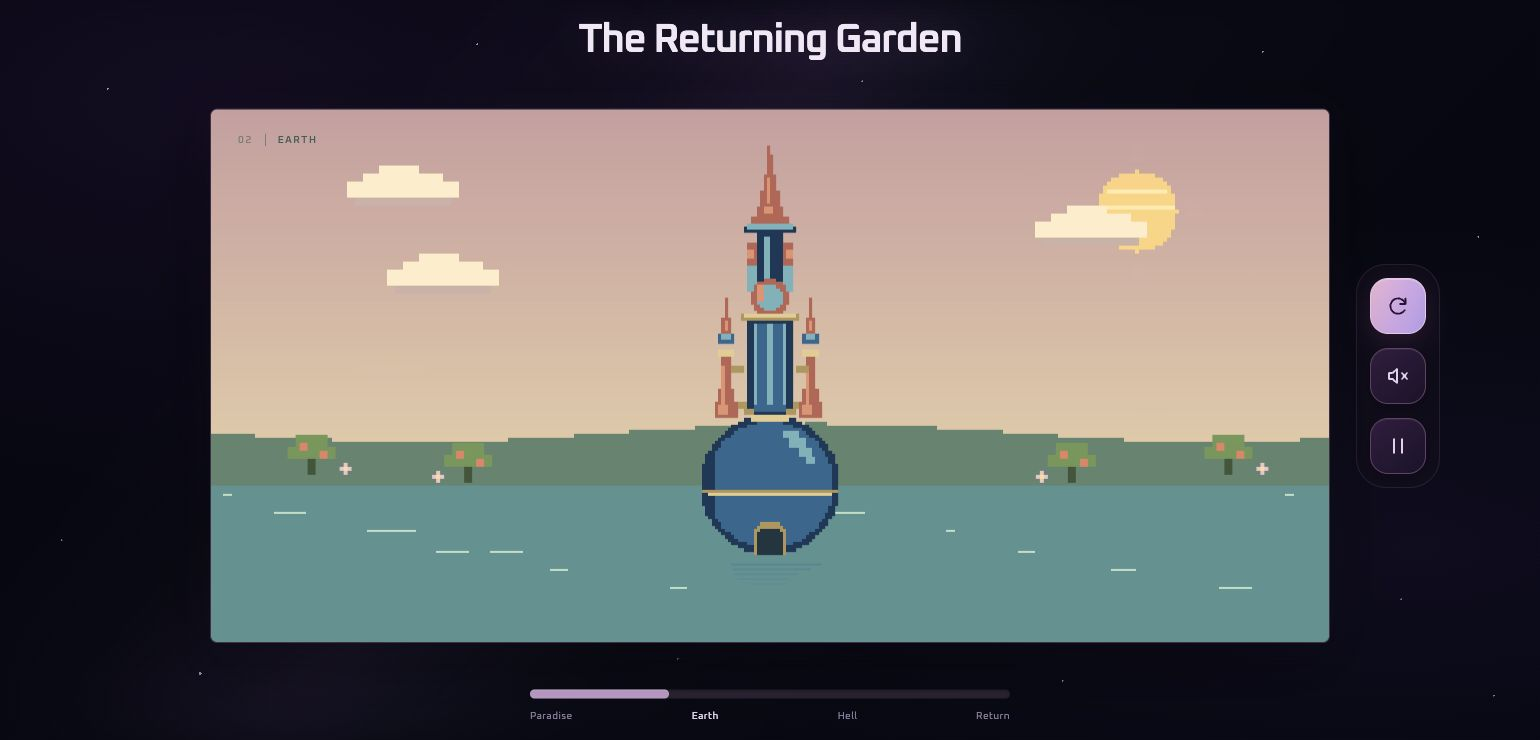
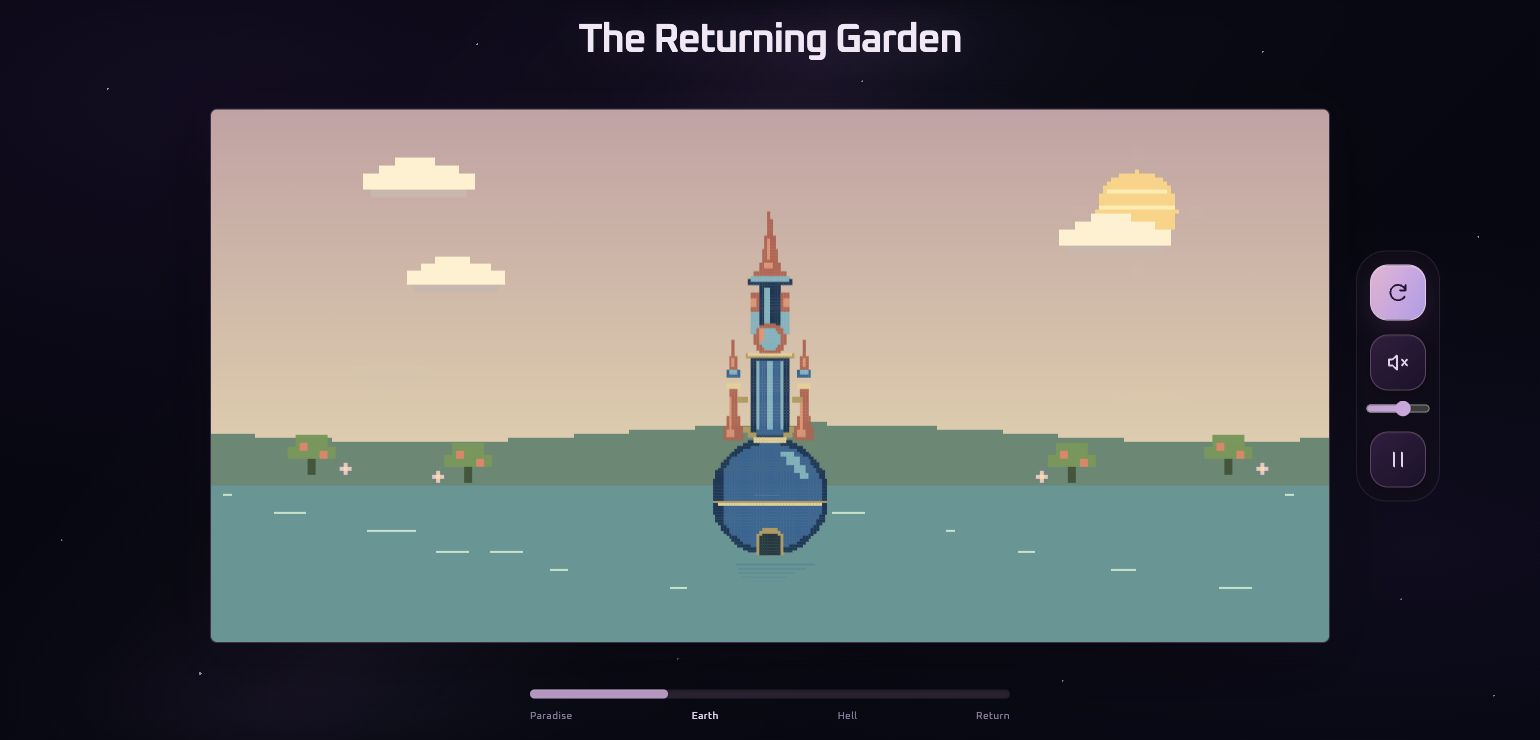
Explain global pause and verify visible volume response

diff --git a/docs/COURSE_CODE_AUDIT.md b/docs/COURSE_CODE_AUDIT.md
@@ -40,7 +40,7 @@ Classification:
 | Anonymous callback functions passed to an event listener | **A.** Week 5 Tutorial section 1 explicitly uses `addEventListener("click", function(e) { ... })`. This feature must not be wrongly listed as wholly outside the course. |
 | `class`, constructor, `this`, instance properties, methods, `new`, separate update/display responsibilities | **A.** Week 7 Lecture's `Ball` class; OOP PDF pp24–53 and pp54–84. Week 11 Tutorial's `Head` class independently demonstrates the pattern. OOP PDF p104 explicitly says OOP is needed for the Final. |
 | Multiple ordinary script files in dependency order | **A.** Week 3 Tutorial's `utils.js` before `script.js`; OOP PDF pp85–88 separates class files and loads them before `sketch.js`. The project does not use ES modules or a build framework. |
-| `String(value)`, `.indexOf()`, `.toUpperCase()` | **C** for the exact conversion/string methods: no example was located. String values and object-method syntax themselves are **A**. Here the methods produce ARIA values, identify an audio error status and format a phase label. |
+| `String(value)`, `.indexOf()` | **C** for the exact conversion/string methods: no example was located. String values and object-method syntax themselves are **A**. Here the methods produce ARIA values and identify an audio error status. |
 | `try/catch`, Promise `.then(success, failure)`, captured `mechanic = this` across an asynchronous callback | **C.** Not located in the saved lesson bodies, exported page HTML or PDF text. Ordinary functions and scope are taught, but promise settlement and exception recovery are additional concepts. |
 
 No authored runtime code uses array `.map()`/`.filter()`, arrow-function chains, destructuring, async/await, import/export, inheritance frameworks or a physics engine. This observation describes the current source; it does not imply every remaining browser helper was taught.
@@ -68,7 +68,8 @@ No authored runtime code uses array `.map()`/`.filter()`, arrow-function chains,
 | `millis()` | **C exact API; B clock design.** The course teaches timers in Week 5 Tutorial using `setInterval`, and temporal animation using `frameCount` later. No actual `millis()` example was located in the lesson bodies, offline page HTML or PDF text. Elapsed-time modulo, pause compensation and re-anchoring the one clock are the project's own implementation. |
 | `deltaTime` | **C exact API.** No example was located. The project uses it for elapsed-frame motion and easing, building on taught frame animation and `lerp`. |
 | `pixelDensity(1)`, `frameRate(60)`, `cursor(HAND/ARROW)`, renderer `.parent()` and `.elt` | **C exact APIs.** Not located as taught examples. They control output density, target frame rate, hover feedback and DOM placement/accessibility. The course states that draw normally runs around 60 fps; that statement is not evidence that `frameRate()` was demonstrated. |
-| `loadSound()`, `p5.Amplitude`, `.setInput()`, `.getLevel()`, `.isPlaying()`, `.play()`, `.pause()` | **A.** Week 10 Lecture/Tutorial, `3241912.json` / `3241914.json`; Audio PDF `Week 12.pdf` pp24–32 and pp38–56. The PDF p24 code screenshot explicitly calls `audio.pause()` and uses a Space gesture; this was visually rechecked during this audit. The webpage examples instead use `.stop()`/`.loop()`. Amplitude driving size is directly demonstrated; mapping it into a narrow scale range and doorway glow is **B**. |
+| `loadSound()`, `p5.Amplitude`, `.setInput()`, `.getLevel()`, `.isPlaying()`, `.play()`, `.pause()` | **A.** Week 10 Lecture/Tutorial, `3241912.json` / `3241914.json`; Audio PDF `Week 12.pdf` pp24–32 and pp38–56. The PDF p24 code screenshot explicitly calls `audio.pause()` and uses a Space gesture; this was visually rechecked during this audit. The webpage examples instead use `.stop()`/`.loop()`. Amplitude driving size is directly demonstrated; the volume-plus-amplitude scale and doorway glow are **B** applications. |
+| `createSlider()`, slider `.value()` and SoundFile `.setVolume()` | **A.** Week 10 Lecture explicitly uses `createSlider(0,1,0.5,0.02)` and `audio.setVolume(slider.value())`. The corresponding Audio PDF `Week 12.pdf` pp24, 30 and 32 demonstrates the volume control. The project's default 0.6, step 0.01 and visible base-size mapping are **B** choices. Gain-ramp timing and conditional gain writes are additional implementation details. |
 | Sound `.setLoop(true)`, `.isLoaded()`, load success/error callbacks | **C for these exact calls/callback signatures.** The course teaches looping with `.loop()` and loading in `preload()`. Separate loop mode and load-state/error guards are additional implementation details. |
 | `userStartAudio()` plus a promise | **C.** The course explicitly teaches that a user gesture must initiate audio, but this exact unlock API and its asynchronous success/failure handling were not located. Explain the distinction between granting browser playback permission and actually starting/pausing the sound file. |
 
@@ -77,7 +78,7 @@ No authored runtime code uses array `.map()`/`.filter()`, arrow-function chains,
 - **Castle:** constructing a token grid, painting groups of cells, choosing sphere/ring cells with distance, then drawing each occupied cell with `rect()`. This combines taught data structures, loops, classes, basic shapes and transforms. Its artwork-specific recipe was not a course example.
 - **WorldClock:** four fifteen-second stages, stable/transition intervals, sixteen semantic colour keys, three world weights, repeated Earth intervention and pause compensation. Timers, modulo, booleans, conditions, arrays and interpolation have course precedents; this one-timeline state model is new project logic. `millis()` is separately identified as an additional API.
 - **CloudSystem:** initial random size/position/speed/offset and continuous noise sampling, with side constraints and smooth phase-speed changes. The random/noise class concept is directly taught; the three-cloud composition and speed recipe are new.
-- **AudioMechanic:** a known amplitude analyser drives a deliberately small, smoothed transform and doorway light. The aesthetic mapping is new; asynchronous browser recovery is an extension.
+- **AudioMechanic:** a course-style volume slider controls output gain and a visible base scale; post-gain RMS adds musical breathing. Enabled preference, actual playback and global pause are separate flags. Holding visual samples and pausing/resuming the file use original state logic; asynchronous browser recovery remains an extension.
 - **Input:** clicking an occupied, inversely transformed grid cell relocates the clock and adds visible feedback. Mouse/key callbacks and coordinate transforms are taught; grid-aware hit-testing and the intervention rule are new algorithms.
 - **WorldDetails:** world weights crossfade a halo, sun, red moon, terraces, shrubs, dark towers, dust and embers. Arrays, loops, conditions, RGB/alpha, `dist`, sine, modulo and `lerp` support it. It is neither a demonstrated classroom algorithm nor a separate physics/particle engine. It reads the existing clock rather than introducing another timer.
 
@@ -95,14 +96,13 @@ Basic CSS should not all be labelled extra-course. Week 8 Tutorial's `DotAnimato
 |---|---|
 | `document.getElementById()`, `.setAttribute()` | **A.** Week 2–5 repeatedly demonstrates both. Applying them to canvas accessibility or button state is **B/C**: the DOM methods are taught; the ARIA meanings are additional. |
 | `addEventListener('click', function...)` | **A.** Week 5 Tutorial section 1. Moving the same event pattern from an SVG to HTML controls is **B**. |
-| `querySelector()` | **Brief A mention.** Week 2 Tutorial names it alongside `getElementById` as a way to select existing elements. A full example was not located. |
-| `querySelectorAll()`, `.classList.toggle()`, `.textContent`, `.style.width`, `.style.setProperty()` | **C exact browser APIs.** These connect state to labels, progress and CSS properties. |
+| `querySelectorAll()`, `.classList.toggle()`, `.textContent`, `.style.width` | **C exact browser APIs.** These connect state to bottom world labels, conditional error feedback and progress. |
 | `.hidden`, `.disabled`, `.clientWidth`, `document.activeElement.tagName` | **C browser properties.** They support conditional messages, available controls, host sizing and preservation of native button keyboard behaviour. |
 | Semantic `main/header/section/aside`, `span`, HTML `button`, `noscript`, live regions, progressbar roles, `aria-*`, `tabindex`, hover `title` | **C for the specific additions.** HTML structure and attributes are taught. The W1 page mentions `div`, but no full semantic-layout/accessibility lesson was located. W10 uses p5 `createButton`, which is related interaction practice rather than evidence that all raw HTML button/accessibility details were taught. |
 | Inline SVG control icons | **A** for the Week 1 SVG canvas, basic shapes, fill and stroke foundations; **B** for composing project-specific icons. The precise `path` arc commands, `viewBox` and CSS selectors that swap speaker/pause states are **C** extensions. The vectors remain separate from the p5 artwork and use no extra icon package. Updating button attributes preserves their SVG children. |
 | Symmetrical desktop CSS Grid | **C.** Equal 88-pixel side columns and a central canvas column keep the artwork aligned with the page centre while the right column holds controls. Basic Flexbox has classroom evidence; this specific Grid layout was not located as a taught example. |
 | Layout spacing, typography and palettes | **B design decisions using A basic CSS.** Their exact values are original. |
-| Relative/absolute/fixed positioning, z-index and `isolation`, overflow, opacity, pointer behaviour, pseudo-classes/elements, attribute selectors, CSS custom properties, `calc()/clamp()/min()`, Flexbox wrapping/gap and the reduced-motion media query | **C specific CSS techniques.** Responsive canvas design is taught, but that does not establish that every Flexbox option or the reduced-motion preference query was taught. Current desktop controls use Flexbox. |
+| Relative/fixed positioning, z-index and `isolation`, overflow, opacity, pointer behaviour, pseudo-classes/elements, attribute selectors, `clamp()/min()/minmax()`, Flexbox direction/gap, range-input `accent-color` and the reduced-motion media query | **C specific CSS techniques.** Responsive canvas design is taught, but that does not establish that every Flexbox option or the reduced-motion preference query was taught. Current desktop controls use Flexbox and Grid. |
 | Layered radial/linear gradients, shadows, CSS `filter:blur()`, transition/transform button feedback, a self-hosted variable Oxanium font and `@font-face` | **C presentation extensions.** No lesson example was located. The font's OFL licence and source should be retained separately from p5's licence. These features decorate the webpage; the p5 tower remains rectangle geometry. |
 | Font `<link rel="preload" ... as="font" ... crossorigin>` and theme-colour metadata | **C resource/peripheral metadata.** Basic `<link>` and viewport/charset metadata are taught; font preloading and the meanings of these extra attributes were not located as lesson examples. |
 
@@ -140,6 +140,6 @@ If a strictly classroom-only implementation is later requested, identify simplif
 
 ### Audit status
 
-The new `WorldDetails` class, its shared-clock world weights and sketch integration were included. After the interface revisions, `index.html`, `style.css` and `sketch.js` were read again. The desktop-only canvas-height function remains `min(760, max(520, windowHeight * 0.72))`. Review round 2 centres the heading and continuous rounded progress, adds a symmetrical desktop Grid and a right sidebar, and uses inline SVG icons with accessible/hover names. Speaker and pause glyphs switch through the existing pressed attributes; the update function no longer replaces button text nodes. The local font, space gradients, shadows and reduced-motion query remain presentation extensions. Removed stage-message/footer instruction nodes are no longer treated as current code.
+The complete authored runtime was reviewed, including review round 3's audio class, input guards, slider and global pause integration. The canvas-height function remains `min(760, max(520, windowHeight * 0.72))`; the tower baseline is now 0.68 of canvas height. The centred Grid, sidebar icons and rounded progress remain. The picture's upper-left phase caption and its colour-update logic are removed. A course-demonstrated p5 slider controls volume. Global pause holds clock, cloud, colour easing, detail weights, light decay and audio visual samples, while remembering whether sound should resume. Sound preference and volume remain configurable during pause; picture interventions and restart wait until resume. Browser support and decorative CSS remain identified extensions.
 
 During the final evidence check, the original Audio PDF p24 image was reopened. This corrected an initial text-search omission: `.pause()` is explicitly demonstrated in that screenshot. No classroom claim in this report relies solely on whether an exact string survived PDF text extraction.

diff --git a/README.md b/README.md
@@ -2,7 +2,7 @@
 
 **IDEA9103 Creative Coding Final — ZIQIAN LI**
 
-The Returning Garden is an interactive p5.js work inspired by the blue tower in Hieronymus Bosch's *The Garden of Earthly Delights*. A building redrawn from small rectangles remains at the centre of a sixty-second journey through Paradise, Earth, Hell and Return. A pale celestial garden, a warm living landscape and a dark volcanic world give the stages distinct identities. Drifting clouds and an optional ambient soundtrack animate the scene. Clicking the tower brings the world back to Earth and restarts that part of the journey.
+The Returning Garden is an interactive p5.js work inspired by the blue tower in Hieronymus Bosch's *The Garden of Earthly Delights*. A building redrawn from small rectangles remains at the centre of a sixty-second journey through Paradise, Earth, Hell and Return. A pale celestial garden, a warm living landscape and a dark volcanic world give the stages distinct identities. Drifting clouds and an optional ambient soundtrack animate the scene. While running, clicking the tower brings the world back to Earth. A volume slider changes the tower's base size, with music adding a breathing response.
 
 ![The running Paradise scene](docs/screenshots/paradise.png)
 
@@ -11,7 +11,7 @@ The Returning Garden is an interactive p5.js work inspired by the blue tower in 
 1. Download or clone the complete repository, keeping its folders intact.
 2. Open the project folder in Visual Studio Code.
 3. Open `index.html` with **Live Server**. Use the local HTTP address it opens in your browser.
-4. Select the upper **circular-arrow icon** to enter the garden. Select the **speaker icon** to hear the soundtrack and see the tower breathe. Hover over an icon to see its action name.
+4. Select the upper **circular-arrow icon** to enter. Use the **speaker icon** for optional sound and the slider beneath it for volume and tower size. Hover over an icon to see its action name.
 
 No build command, package installation or external CDN is required. The p5.js and p5.sound files are included in `libraries/`, and the soundtrack is stored locally. Use a local web server rather than opening the HTML through a `file://` address, so the browser can load the audio asset correctly.
 
@@ -19,13 +19,14 @@ No build command, package installation or external CDN is required. The p5.js an
 
 | Action | Result |
 |---|---|
-| Upper circular-arrow icon | Starts the visual journey. Its hover and accessible name changes from Enter garden to Restart cycle; the arrow icon stays the same. |
-| Click a visible pixel of the tower, or press **E** | Moves the same world timeline to the beginning of Earth. Earth then continues towards Hell and Return. Repeating the action restarts Earth. |
-| **R**, or the circular-arrow icon after entry | Restarts the world timeline at Paradise. It does not rewind the soundtrack or generate a new set of clouds. |
-| **P**, or the lower bars/play icon | Pauses or resumes world time, including light-dust and ember motion. The icon changes from pause bars to a play triangle when paused. Clouds and playing audio can continue. |
-| **Space**, or the middle speaker icon | Plays or pauses the optional soundtrack. Its state changes between muted and sounding speaker icons, with the action name Turn sound on or Turn sound off. The sound button can also start the garden. Shortcuts become active after entry. |
+| Upper circular-arrow icon | Starts the journey, then becomes Restart cycle. The icon stays the same. Restart is disabled during global pause. |
+| Click a visible tower pixel, or **E** | While running, moves the same timeline to the start of Earth. Repeating the action restarts Earth. Ignored while paused. |
+| **R**, or the arrow after entry | While running, restarts world time at Paradise without rewinding music or regenerating clouds. Ignored while paused. |
+| **P**, or the lower bars/play icon | Pauses **all artwork animation and music**, then resumes from the held state. The action names are Pause garden and Resume garden. |
+| **Space** after entry, or the speaker icon | Changes the sound preference. While paused, this stays silent and determines whether music resumes later. The speaker button can also start the garden. |
+| Slider beneath the speaker | Sets volume from 0% to 100%, initially 60%. It also changes the tower's base size even with sound off. Changes made while paused affect the picture after resume. |
 
-The three icons sit vertically beside the artwork. Their action names are available on hover and through accessibility labels. Click outside the tower's visible cells to leave the timeline unchanged. Click empty canvas space if a shortcut needs focus. Space on a focused button activates that button normally. The phase label and continuous progress pill show world time.
+The three icons sit vertically beside the artwork. Their names are available on hover and through accessibility labels. The speaker icon shows the enabled preference; its accessible description distinguishes playing, zero volume and global pause. The continuous progress pill and world names below it show the journey; there is no caption over the canvas. Click empty canvas space if a shortcut needs focus. Space on a focused button activates it normally, and the focused slider retains its native keyboard controls.
 
 Sound starts only after a user action. This project plays a supplied audio file and **does not request microphone access**. If the file cannot load, the visual work remains available and the page displays an audio message.
 
@@ -49,7 +50,7 @@ Each palette gives semantic names to the sky, water, clouds and building colours
 
 `WorldDetails` in `world-details.js` draws the environmental symbols with small rectangles. Paradise has a hollow ivory halo, fourteen light specks and two floating terraces. Earth has a warm sun and four clusters of fruit shrubs and flowers. Hell has a crimson moon, six broken crags, lava cracks and eighteen rising embers. The symbols sit mainly beside the central tower.
 
-`WorldClock.worldWeights` stores three opacity targets using the same endpoint worlds and blend amount as the palettes. `WorldDetails.update()` eases towards those targets, so motifs crossfade along with the colours. `drawDisc()` uses nested loops and distance tests for the ring, sun and moon; the other motifs combine rectangle recipes and small fixed loops. Dust and embers read the existing cycle progress rather than starting another clock. Their motion pauses with world time.
+`WorldClock.worldWeights` stores three opacity targets using the same endpoint worlds and blend amount as the palettes. `WorldDetails.update()` eases towards those targets, so motifs crossfade with the colours. `drawDisc()` uses loops and distance tests for the halo, sun and moon; other motifs combine rectangle recipes and fixed loops. Global pause holds these weights and all artwork motion, including cloud drift, light dust, embers, water, reflection and glow.
 
 ### Randomness and Perlin noise
 
@@ -57,7 +58,17 @@ Each palette gives semantic names to the sky, water, clouds and building colours
 
 ### Audio amplitude
 
-`AudioMechanic` in `audio-mechanic.js` connects a `p5.Amplitude` analyser to the local WAV. Its level is clamped, adjusted for the track's quiet baseline, and mapped to a target scale. `lerp()` smooths the response, and the final scale is limited to **0.985–1.035**. The bottom-centre anchor keeps the tower's base in place. Audio level also contributes to a restrained doorway glow. Pausing audio smoothly returns the scale towards 1.
+`AudioMechanic` connects a `p5.Amplitude` analyser to the local WAV after its volume gain. `createSlider(0, 1, 0.6, 0.01)` supplies volume; `setVolume()` writes the changed gain to the sound file. Volume sets a visible base size even when sound is off, and measured RMS adds a smaller breathing response:
+
+```text
+energy = constrain(postGainRMS / 0.24, 0, 1)
+targetScale = 0.82 + 0.24 * volume + 0.10 * energy
+scale = lerp(scale, targetScale, 0.10), bounded to 0.82–1.16
+```
+
+The analyser already includes the volume gain, so its level is not multiplied by volume again. The tower's unscaled height is 68% of the canvas, anchored at 84% from the top. Its base remains in place as size changes; amplitude also contributes to the doorway glow.
+
+`enabled` records the sound preference, `playing` records actual playback, and `globalPaused` holds the artwork and audio. Global pause calls `SoundFile.pause()` to preserve the music cursor and holds the last level and scale. Resume plays from that cursor only if sound is enabled. A sound toggle during pause changes the preference without playing; volume changes during pause become visible after resume. Pending browser-start callbacks recheck these flags so they cannot undo a later pause.
 
 The original soundtrack was generated offline from mathematical sine-wave tones with Codex assistance. It is a **60-second, mono, 16-bit PCM WAV at 22,050 Hz**, using sustained harmonies, quiet bells, periodic amplitude swells and circular echo tails. No external recording, sampled instrument, speech or downloaded song was used. The browser plays and analyses this file; it does not run the synthesis process.
 
@@ -65,15 +76,17 @@ The original soundtrack was generated offline from mathematical sine-wave tones 
 
 `input-mechanic.js` handles pointer and keyboard actions. `Castle.contains()` maps the pointer back into the current scaled grid, so transparent corners are not clickable. An intervention calls `WorldClock.enterEarth()`, which repositions the clock's `startedAt` value. The automatic update reads that same clock on the next frame, preserving the user's choice. There is no second timer that immediately changes it back.
 
+`toggleGardenPause()` coordinates the clock with `AudioMechanic.setGlobalPaused()`. While paused, the main draw loop stops advancing the cloud, colour, world-detail, glow and audio-response state. Pointer/E interventions and R/restart are blocked, while sound configuration remains available.
+
 ### Drawing and desktop layout
 
 `Castle.paintRect()`, `buildSphere()` and `buildTower()` construct the grid once. Distance checks choose cells for the sphere and central ring; nested loops turn each occupied cell into a rectangle. The landscape, clouds, water marks and reflection use a restrained set of shapes and shared palette values.
 
 `preload()` loads the audio, `setup()` creates the canvas and class instances, and `draw()` coordinates updates and rendering. `windowResized()` resizes the canvas and recalculates the tower's unit size when the desktop browser window changes. `pixelDensity(1)`, rounded cell edges and small overlaps reduce gaps between the drawn pixels.
 
-The desktop interface uses a dark galaxy background, lilac icon buttons and the angular Oxanium typeface. The title and artwork share the viewport centre; equal 88-pixel side columns balance the vertical controls at right. A continuous, rounded 9-pixel progress pill sits at the bottom centre. Inline SVG paths use a 24-by-24 `viewBox`; CSS selects the visible icon through `aria-pressed`. These path and state details extend the taught SVG foundations. Static CSS gradients create stars and haze. Full instructions stay in this README and the Word explanation; audio guidance appears only on failure.
+The desktop interface uses a dark galaxy background, lilac icon buttons and Oxanium. Equal 88-pixel side columns centre the title and artwork; the volume slider sits beneath the speaker at right. A continuous rounded 9-pixel progress pill sits at bottom centre. No phase caption overlays the artwork. Inline SVG paths use a 24-by-24 `viewBox`, with states selected through `aria-pressed`; those details extend the taught SVG foundations. Instructions stay in this README and Word; audio guidance appears only on failure.
 
-These structures build on the course's arrays, loops, functions, classes, coordinate transforms, `random()`, `noise()`, `lerp()`, `lerpColor()` and p5.sound examples. Browser-specific engineering also supports the presentation: promise callbacks handle audio permission and failure, DOM and accessibility attributes support controls, and additional CSS and a local font style the page. Those supporting details extend the classroom examples; the visual mechanisms use the drawing and animation techniques studied in the course.
+These structures build on the course's arrays, loops, functions, classes, transforms, `random()`, `noise()`, interpolation and p5.sound examples. Week 10 explicitly demonstrates `createSlider()` with `setVolume(slider.value())`; mapping that control and amplitude to tower size is this project's application. Promise callbacks handle browser audio permission and failure, with additional DOM/accessibility and CSS supporting the presentation.
 
 ### Supplementary implementation details
 

diff --git a/docs/TESTING.md b/docs/TESTING.md
@@ -1,6 +1,6 @@
 # Verification record
 
-Review round 2, checked on 4 November 2026 in Chrome, with the project served from a local HTTP server. Layout and icon observations below are from this round; unchanged world and audio mechanisms also retain the earlier checks. These observations do not cover every browser or device.
+Review round 3, checked on 4 November 2026 in Chrome, with the project served from a local HTTP server. This round checks volume, visible size mapping and global pause. Unchanged clock calculations retain the earlier boundary checks. These observations do not cover every browser or device.
 
 The current scope is a desktop browser. Window resizing is retained for the course requirement. Earlier narrow-screen experiments are outside this review scope.
 
@@ -8,31 +8,37 @@ The current scope is a desktop browser. Window resizing is retained for the cour
 
 | Check | Observed result |
 |---|---|
-| Initial load | The artwork and controls load from local project files. No console errors were captured. |
+| Initial load | The artwork, local font and controls load. The upper-left caption is absent. A Volume slider appears below the speaker. No new console errors were captured. |
 | Natural world changes | After entering Earth, Hell and Return appeared naturally, followed by Paradise. Nine class-level boundary cases separately checked the 60000 ms cycle and the three background weights. |
 | World background designs | Paradise has a halo, light dust and floating terraces; Earth has a warm sun, fruit shrubs and flowers; Hell has a red moon, dark rocks, lava marks and embers. They fade using the same clock as the palettes. |
-| Keyboard E and R | E changes the phase to Earth; R returns the world timeline to Paradise. |
-| Pause and resume | P and the pause button change the paused state. A paused timeline remains paused after a tower intervention. |
-| Repeated tower intervention | Three consecutive clicks on the visible central shaft leave the phase at Earth, without an immediate automatic reversal. |
+| Keyboard and paused input | P uses the global pause helper. E and R leave paused progress unchanged, and the restart button is disabled while paused. |
+| Pause and resume | With sound enabled, pause changes actual playback to paused. Two canvas captures two seconds apart are identical, and progress remains unchanged. |
+| Transition freeze | Pausing during the Earth-to-Hell transition at about second 27 produces identical canvas captures 1.8 seconds apart, including colour easing and cloud motion. |
+| Scaled tower intervention | After settling at both volume extremes, clicking visible tower pixels changes Paradise to Earth. Hit testing follows the displayed scale. |
 | Background click | Clicking the sky outside the tower leaves the phase unchanged. |
-| Sound gesture | Selecting the speaker button starts playback, shows the sound-wave icon and changes its accessible name to Turn sound off. A second click pauses sound and restores the crossed speaker and Turn sound on name. |
-| Icon controls | The circular-arrow button starts the garden and then restarts the clock. Pause bars become a play triangle while paused. Each button retains its SVG children, shows exactly one icon and has matching hover and accessible names. |
-| Native keyboard activation | Space on the focused sound button toggles it once per activation, without triggering the global shortcut twice. |
+| Sound preference | Turning sound off while globally paused leaves it off after resume. Turning it on while paused stays silent until resume. The speaker icon represents the enabled preference; its accessible description reports actual playback. |
+| Icon controls | Pause bars become a play triangle while paused. SVG children and action names remain intact. |
+| Volume and visible size | The native slider reaches 0% and 100%. Captures while the track is playing show a large size difference; a colour-contour estimate in this sample gives about 290 versus 395 pixels in tower height. This is an approximate screenshot observation, not a calibrated scale measurement. |
+| Volume during pause | Changing 100% to 0% while paused leaves the canvas identical. Resuming applies the new size gradually and permits silent playback at zero gain. |
 | Audio response | Two captures during playback show a small change in the tower's rendered geometry. The numeric scale bounds were checked separately at class level. |
 | Desktop layout | At 1540 by 740, the canvas is approximately 1118 by 533 pixels. The title, artwork and progress all have centre x = 770. The three icons are vertically arranged in a separate right sidebar. |
 | Desktop window resize | At 1024 by 768, the canvas is approximately 734 by 553 pixels and the artwork and progress centre x = 512. No horizontal or vertical overflow occurs. At 1540 by 684, page height stays 684 and the progress bottom is 666. |
 | Rounded progress | The track is a continuous 9-pixel pill with rounded ends and a rounded fill. The earlier quarter-stage dividers have been removed. |
-| Typography and compact interface | The local Oxanium font loaded on desktop. The visible page contains the title, phase, progress labels and three buttons, with no routine interaction paragraphs. |
+| Typography and compact interface | The visible page contains the title, artwork, bottom world labels/progress, three icons and the volume slider. It has no phase caption inside the artwork or routine instruction paragraphs. |
 | Resize during loading | A guard handles resize events before the castle is constructed. No new console errors appeared during the recorded reload, interaction and resize checks after the fix. |
 
-Phase screenshots are in `screenshots/`. This round captured Earth at about second 17, Hell at second 32 and Return at second 52. `reference-v2.png` is the AI-assisted concept reference, not a screenshot of the running sketch.
+Phase screenshots are in `screenshots/`. This round captured Earth at about second 17, Hell at second 32 and Return at second 52. `volume-low.png` and `volume-high.png` show the actual 0% and 100% slider cases with music enabled. `reference-v2.png` is the AI-assisted concept reference, not a screenshot of the running sketch.
 
 ## Code and asset checks
 
-The project uses a fixed cloud array, a single world clock, a bounded breathing scale, a local audio file and separate JavaScript files for the four mechanics. Nine transition cases checked world weights at 0, 10, 12.5, 15, 27.5, 30, 45, 52.5 and 60 seconds, plus paused Earth intervention and restart. Earlier class-level checks covered audio scale bounds, a neutral paused target, unavailable audio and rejected audio-start promises. These checks supplement browser interaction; they do not demonstrate physical audio output or performance on every device.
+The project uses a fixed cloud array, a single world clock and separate mechanic scripts. Earlier clock tests covered nine transition boundaries. This round's mocked audio tests cover pending-start pause, pause/resume with a stored cursor, preference changes while paused, rapid toggles, missing audio, rejected starts and failed gain updates. They also confirm that a post-gain reading is not multiplied by volume again.
+
+The new formula is `0.82 + 0.24 * volume + 0.10 * constrain(level / 0.24, 0, 1)`, eased by 0.10 and limited to 0.82–1.16. Mocked values settle at 0.82 for zero volume, 1.06 for maximum volume with sound off, 0.99 for volume 0.5 and level 0.12, and at most 1.16 for peaks. Global pause holds level and scale exactly. A 0.68-canvas-height baseline and 0.84 bottom anchor keep the maximum tower within the frame.
+
+Resume-from-position uses the bundled SoundFile pause/play behaviour and was checked in source and mocked cursor tests; no numerical browser measurement of the audio cursor is claimed. Pixel comparison checks rendered visual freezing and accessible playback descriptions reflect the file's playing state. The tests do not demonstrate physical audio output on every device.
 
 The WAV contains 60 seconds of mono 16-bit PCM audio at 22050 Hz. Its measured peak is approximately 0.72 of full scale, without clipped samples. The audio is original mathematical synthesis made with AI assistance, as disclosed in the README.
 
 ## Limits
 
-Safari, Firefox and a hosted GitHub version have not been verified. Mobile use is outside the project scope. The world pause freezes the timeline, light dust and embers; cloud drift and enabled sound continue by design. Restarting the cycle does not rewind the audio or regenerate the clouds.
+Safari, Firefox and a hosted GitHub version have not been verified. Mobile use is outside the project scope. Global pause freezes the complete scene and music; sound preference and volume can be configured while paused, with visual changes deferred until resume. Restarting the cycle does not rewind audio or regenerate clouds and is unavailable while paused.
